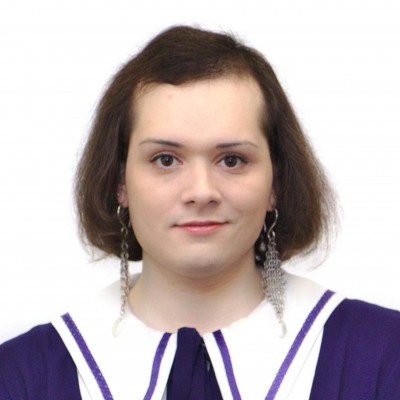
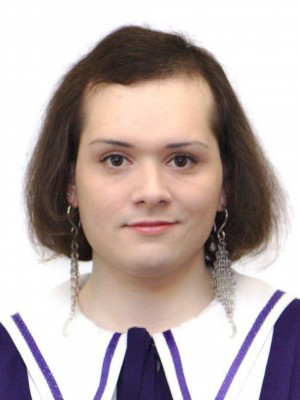
photos

diff --git a/satc/index.html b/satc/index.html
@@ -21,35 +21,62 @@
 
   <style type="text/css">
     .row.no-gutter {
-    margin-left: 10px;
-    margin-right: 10px;
+      margin-left: 10px;
+      margin-right: 10px;
     }
 
     .row.no-gutter [class*='col-']:not(:first-child),
     .row.no-gutter [class*='col-']:not(:last-child) {
-    padding-right: 5px;
-    padding-left: 5px;
+      padding-right: 5px;
+      padding-left: 5px;
     }
 
     h1,h2,h3,h4 {
-    display: inline;
+      display: inline;
     }
 
     .person {
-    float: none;
-    display: inline-block;
-    font-size: 16px;
-    text-align: center;
-    vertical-align: top;
-    margin: 0px 0px;
-    padding: 0px 0px;
-    padding-bottom: 10px;
-    
+      float: none;
+      display: inline-block;
+      font-size: 16px;
+      text-align: center;
+      vertical-align: top;
+      margin: 0px 0px;
+      padding: 0px 0px;
+      padding-bottom: 10px;
     }
 
     .person img {
-    display: inline-block;
+      display: inline-block;
     }
+
+
+    .person-extra {
+      float: none;
+      display: inline-block;
+      font-size: 12px;
+      text-align: center;
+      vertical-align: top;
+      margin: 0px 0px;
+      padding: 0px 0px;
+      padding-bottom: 10px;
+    }
+
+    .person-extra img {
+      display: inline-block;
+    }
+
+    .paper-list {
+      list-style: none;
+      margin-left: 0;
+      padding-left: 1em;
+      text-indent: -1em;
+    }
+
+    .paper-list img {
+      height: 1.5em;
+    }
+
   </style>
 
 </head>
@@ -155,16 +182,13 @@
 
               <h5><span class="label
                                label-primary">2017-03-08</span>
-                Our paper, Proxy Use in Data-driven Systems</a>, will appear in CCS 2017.
+                Our paper, Use Privacy in Data-driven Systems</a>, will appear in CCS 2017.
               </h5>
 
               <h5><span class="label
                                label-primary">2017-01-08</span>
                 Our paper, <a href="https://arxiv.org/abs/1707.08120">Proxy Discrimination in Data-driven Systems</a>, has appeared on arXiv.
               </h5>
-
-              <!-- TODO: News about the group but also related to the group's topics of
-              security, privacy, and fairness. RSS feed as well? -->
             </div>
           </div>
         </div>
@@ -173,54 +197,109 @@
           <div class="container-fluid" style="margin: 0 0; padding: 0 0;"><a name="people"></a>
             <div class="row no-gutter" style="font-size: 0px;">
 
+              <center>
+
             <div class="person col-xs-6 col-sm-4 col-md-3 col-lg-2">
               <a href="http://www.andrew.cmu.edu/user/danupam/">
                 <img class="img-rounded img-responsive"
-                     src="https://www.andrew.cmu.edu/user/danupam/ad.jpg"/><br>
+                     src="../images/person_anupam.jpeg"/><br>
                 Anupam Datta</a><br/>CMU<br/>(principal investigator)
             </div>
 
             <div class="person col-xs-6 col-sm-4 col-md-3 col-lg-2">
               <a href="http://www.cs.cmu.edu/~mfredrik/">
                 <img class="img-rounded img-responsive"
-                     src="http://www.cs.cmu.edu/~mfredrik/images/mfredrik.jpg"/><br/>
+                     src="../images/person_matt_upscaled.jpeg"/><br/>
                 Matt Fredrikson</a><br/>CMU<br/>(co-principal investigator)
             </div>
 
             <div class="person col-xs-6 col-sm-4 col-md-3 col-lg-2">
               <a href="https://www.cylab.cmu.edu/education/faculty/mengshoel.html">
                 <img class="img-rounded img-responsive"
-                     src="https://www.cylab.cmu.edu/images/faculty/mengshoel.jpg"/><br/>
+                     src="../images/person_ole_upscaled.jpeg"/><br/>
               Ole Mengshoel</a><br/>CMU<br/>(co-principal investigator)
             </div>
 
             <div class="person col-xs-6 col-sm-4 col-md-3 col-lg-2">
               <a href="http://www.nyu.edu/projects/nissenbaum/">
                 <img class="img-rounded img-responsive"
-                     src="https://tech.cornell.edu/images/made/uploads/bios/_landscape/Nissenbaum_Helen_2016_340_272.jpg"/><br/>
+                     src="../images/person_helen.jpeg"/><br/>
               Helen Nissenbaum</a><br/>Cornell Tech<br/>(co-principal investigator)
             </div>
 
             <div class="person col-xs-6 col-sm-4 col-md-3 col-lg-2">
               <a href="https://rist.tech.cornell.edu/">
                 <img class="img-rounded img-responsive"
-                     src="https://rist.tech.cornell.edu/images/headshot-small-low.jpg"/><br/>
+                     src="../images/person_tom.jpeg"/><br/>
               Tom Ristenpart</a><br/>Cornell Tech<br/>(co-principal investigator)
             </div>
 
             <div class="person col-xs-6 col-sm-4 col-md-3 col-lg-2">
               <a href="http://www1.icsi.berkeley.edu/~mct/">
                 <img class="img-rounded img-responsive"
-                     src="https://www.icsi.berkeley.edu/icsi/sites/default/files/staff_photos/mct.jpg"/><br/>
+                     src="../images/person_michael_upscaled.jpeg"/><br/>
               Michael C. Tschantz</a><br/>ICSI<br/>(co-principal investigator)
             </div>
 
-            <div class="person col-xs-6 col-sm-4 col-md-3 col-lg-2">
+            <div class="person-extra col-xs-3 col-sm-2 col-md-2 col-lg-1">
               <a href="http://piotr.mardziel.com">
                 <img class="img-rounded img-responsive"
-                     src="http://piotr.mardziel.com/images/wolf_gap1_mug.jpg"/><br/>
+                     src="../images/person_piotr_upscaled.jpeg"/><br/>
                 Piotr Mardziel</a><br/>CMU<br/>(senior person)
             </div>
+
+            <div class="person-extra col-xs-3 col-sm-2 col-md-2 col-lg-1">
+              <a href="http://www.andrew.cmu.edu/user/achoulde">
+                <img class="img-rounded img-responsive"
+                     src="../images/person_alexandra.jpeg"/><br/>
+                Alexandra Chouldechova</a><br/>CMU<br/>(collaborator)
+            </div>
+
+            <div class="person-extra col-xs-3 col-sm-2 col-md-2 col-lg-1">
+              <a href="http://saikat.guha.cc/">
+                <img class="img-rounded img-responsive"
+                     src="../images/person_saikat.jpeg"/><br/>
+                Saikat Guha</a><br/>Microsoft Research<br/>(collaborator)
+            </div>
+
+            <div class="person-extra col-xs-3 col-sm-2 col-md-2 col-lg-1">
+              <a href="http://www.cs.cmu.edu/~./neill/">
+                <img class="img-rounded img-responsive"
+                     src="../images/person_daniel.jpeg"/><br/>
+                Daniel Neill</a><br/>CMU<br/>(collaborator)
+            </div>
+
+            <div class="person-extra col-xs-3 col-sm-2 col-md-2 col-lg-1">
+              <a href="http://pages.cs.wisc.edu/~dpage/">
+                <img class="img-rounded img-responsive"
+                     src="../images/person_david_upscaled.jpeg"/><br/>
+                David Page</a><br/>University of
+                     Wisconsin-Madison<br/>(collaborator, advisory board)
+            </div>
+
+            <div class="person-extra col-xs-3 col-sm-2 col-md-2 col-lg-1">
+              <a href="http://www.heinz.cmu.edu/faculty-and-research/faculty-profiles/faculty-details/index.aspx?faculty_id=9">
+                <img class="img-rounded img-responsive"
+                     src="../images/person_alfred.jpeg"/><br/>
+                Alfred Blumstein</a><br/>CMU<br/>(advisory board)
+            </div>
+
+            <div class="person-extra col-xs-3 col-sm-2 col-md-2 col-lg-1">
+              <a href="http://www.law.nyu.edu/centers/adminofcriminallaw/facultyandstaff/annemilgram">
+                <img class="img-rounded img-responsive"
+                     src="../images/person_anne.jpeg"/><br/>
+                Anne Milgram</a><br/>NYU Law<br/>(advisory board)
+            </div>
+
+            <div class="person-extra col-xs-3 col-sm-2 col-md-2 col-lg-1">
+              <a href="http://www.cs.cmu.edu/~wing">
+                <img class="img-rounded img-responsive"
+                     src="../images/person_jeannette.jpeg"/><br/>
+                Jeannette M. Wing</a><br/>Columbia University<br/>(advisory board)
+            </div>
+
+            </center>
+            
           </div>
           </div>
           </div>
@@ -229,9 +308,9 @@
           <div class="panel panel-default">
             <div class="panel-heading"><h2><a name="papers"></a>Papers</h2></div>
             <div class="panel-body">
-              <ul>
-                <li>2017 arXiv. <a href="https://arxiv.org/abs/1707.08120">Proxy Discrimination in Data-driven Systems</a></li>
-                <li>2017 CCS. Proxy Use in Data-driven Systems</li>
+              <ul class="paper-list">
+                <li><img src="../images/icon_report.svg"/>2017 arXiv. <a href="https://arxiv.org/abs/1707.08120">Proxy Discrimination in Data-driven Systems</a></li>
+                <li><img src="../images/icon_report.svg"/>2017 CCS. Use Privacy in Data-driven Systems</li>
               </ul>
               <!--TODO: All the relevant papers published by group people along with the
               abstract and bibtex entries for each.-->
